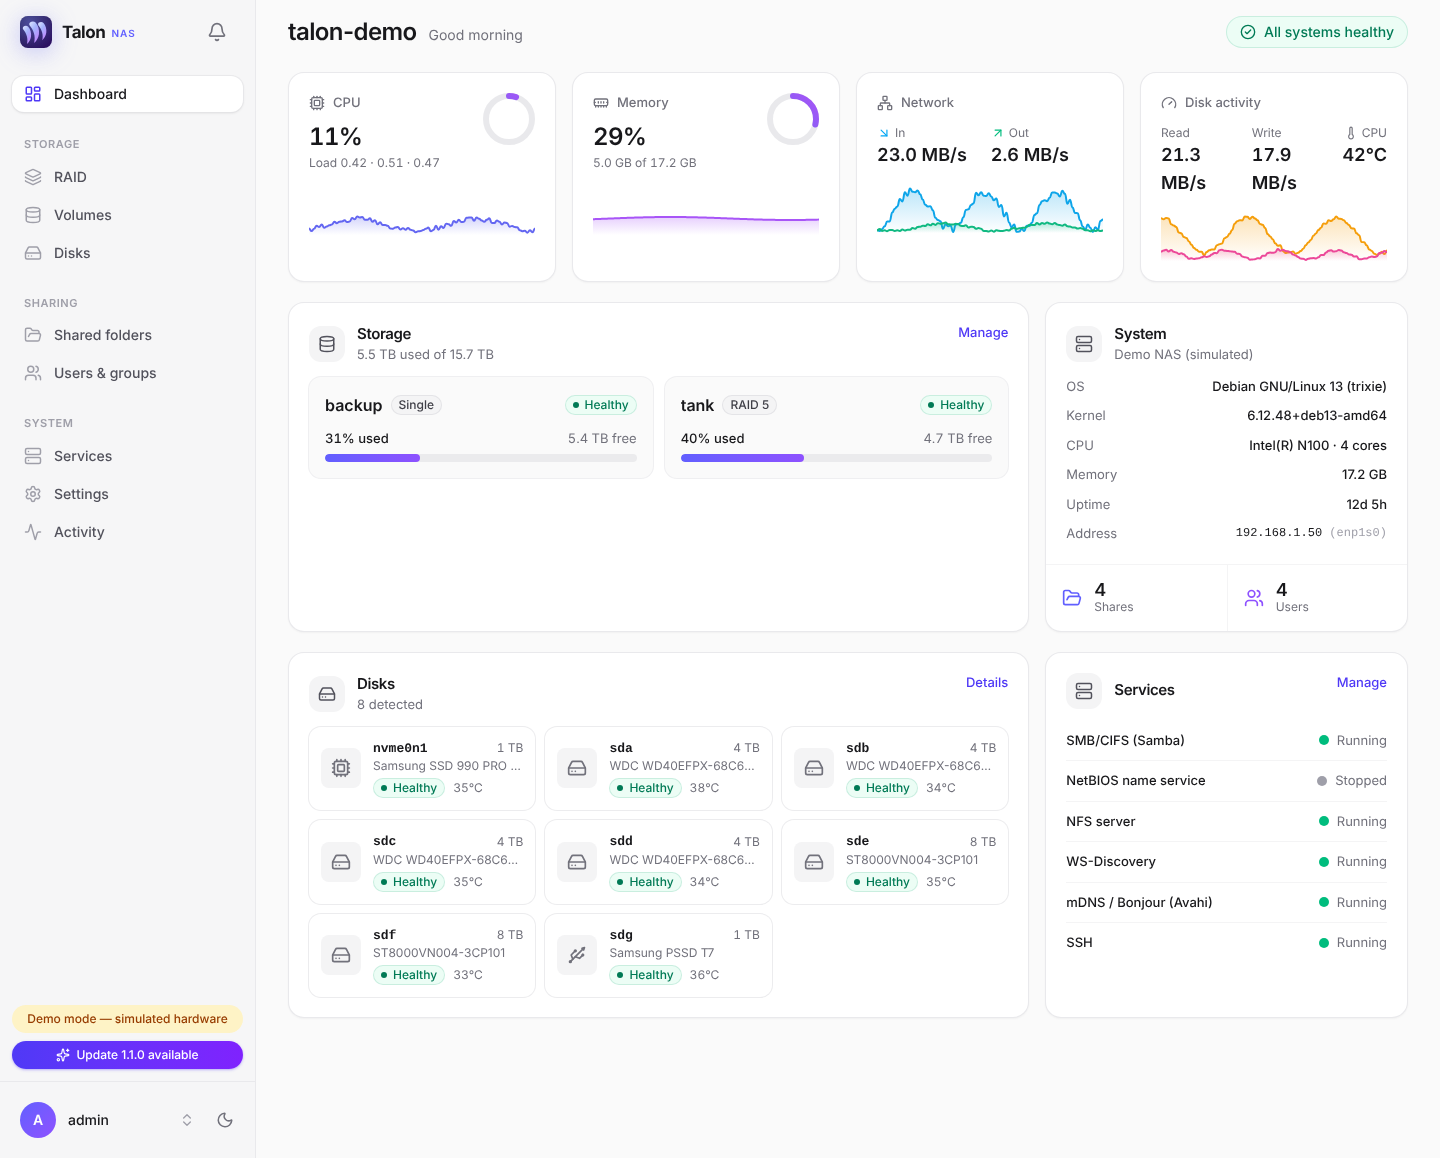
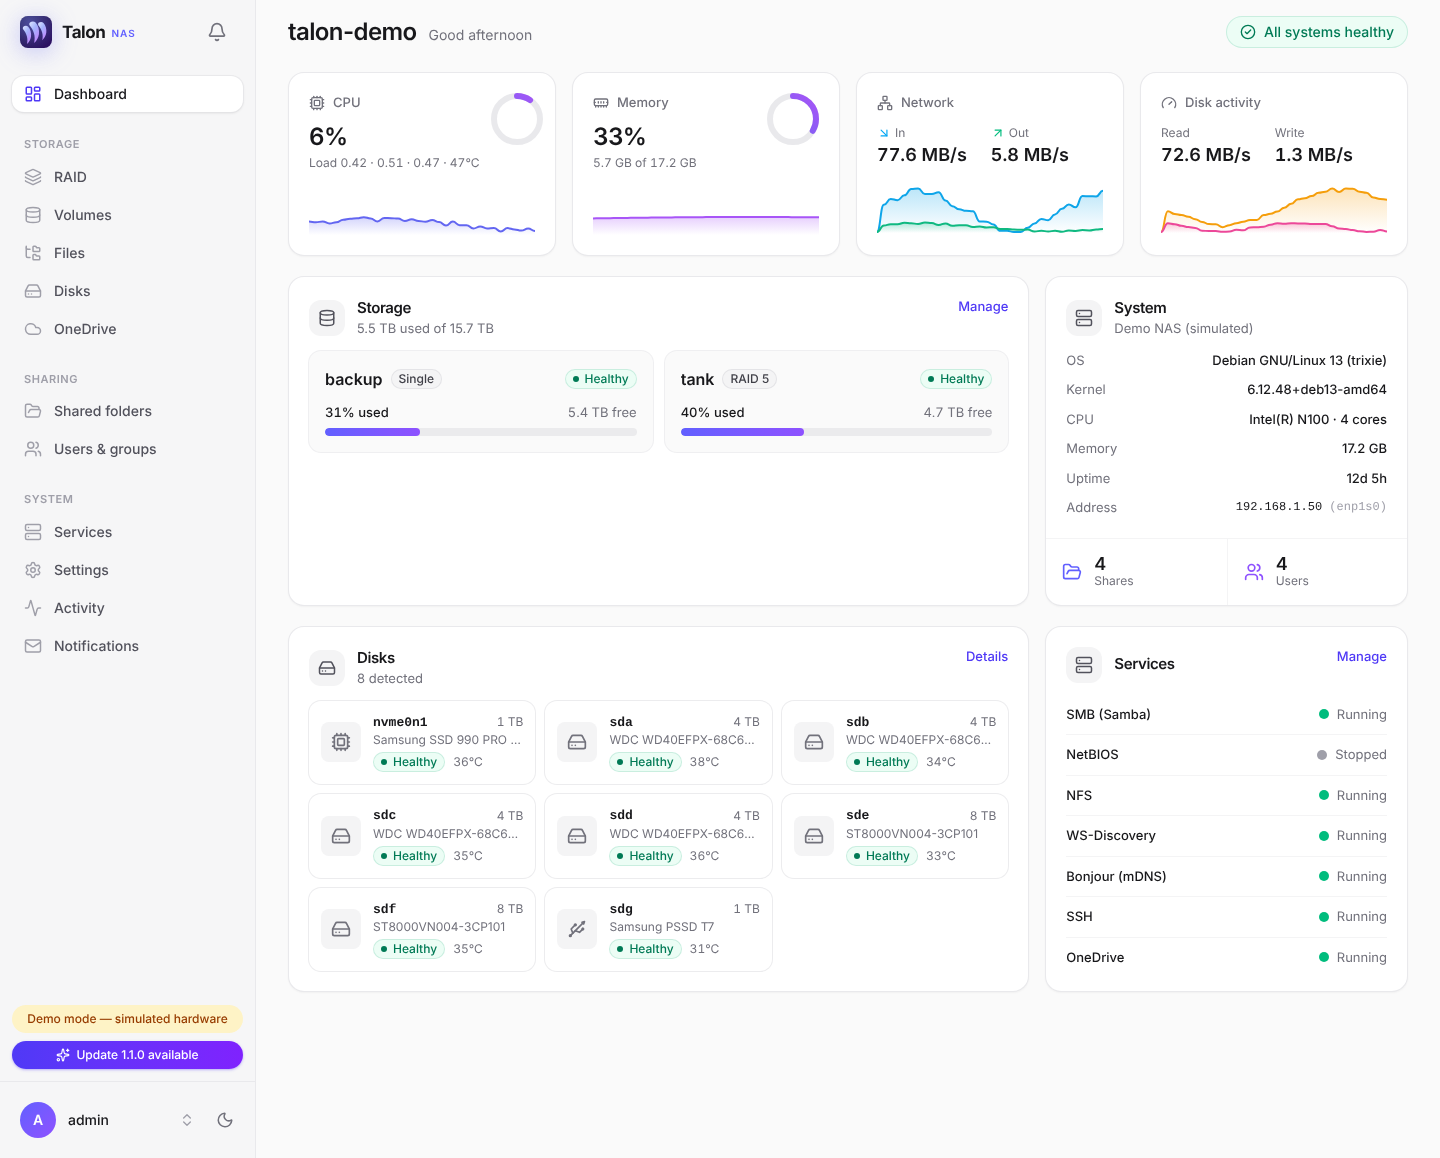
README: screenshot gallery; refreshed dashboard and RAID wizard screenshots; release 1.0.28
Claude-Session: https://claude.ai/code/session_01PEpGi5GNmUTBZ4DwvNjzZw

diff --git a/backend/talon/__init__.py b/backend/talon/__init__.py
@@ -1,3 +1,3 @@
 """Talon - turn a Debian/Ubuntu/Raspberry Pi OS machine into a NAS."""
 
-__version__ = "1.0.27"
+__version__ = "1.0.28"

diff --git a/README.md b/README.md
@@ -59,9 +59,26 @@ https://<nas-ip>/
 - **OneDrive:** back up to or from OneDrive, or two-way sync (beta)
 - **Notifications:** e-mail alerts for RAID, disks, tasks and updates
 
----
+## Screenshots
 
-![RAID wizard](docs/screenshots/raid-wizard.png)
+<table>
+  <tr>
+    <td width="50%" align="center"><a href="docs/screenshots/volumes.png"><img src="docs/screenshots/volumes.png" alt="Volumes on RAID or single disks"></a><br><sub>Volumes on RAID or single disks</sub></td>
+    <td width="50%" align="center"><a href="docs/screenshots/raid-wizard.png"><img src="docs/screenshots/raid-wizard.png" alt="RAID wizard with capacity and protection"></a><br><sub>RAID wizard with capacity and protection</sub></td>
+  </tr>
+  <tr>
+    <td width="50%" align="center"><a href="docs/screenshots/files.png"><img src="docs/screenshots/files.png" alt="Files: browse, upload and download"></a><br><sub>Files: browse, upload and download</sub></td>
+    <td width="50%" align="center"><a href="docs/screenshots/share-permissions.png"><img src="docs/screenshots/share-permissions.png" alt="Shared folder permissions"></a><br><sub>Shared folder permissions</sub></td>
+  </tr>
+  <tr>
+    <td width="50%" align="center"><a href="docs/screenshots/onedrive.png"><img src="docs/screenshots/onedrive.png" alt="OneDrive backup and sync"></a><br><sub>OneDrive backup and sync</sub></td>
+    <td width="50%" align="center"><a href="docs/screenshots/users.png"><img src="docs/screenshots/users.png" alt="Users and groups"></a><br><sub>Users and groups</sub></td>
+  </tr>
+  <tr>
+    <td width="50%" align="center"><a href="docs/screenshots/notifications.png"><img src="docs/screenshots/notifications.png" alt="E-mail notifications"></a><br><sub>E-mail notifications</sub></td>
+    <td width="50%" align="center"><a href="docs/screenshots/dashboard-dark.png"><img src="docs/screenshots/dashboard-dark.png" alt="Dark mode"></a><br><sub>Dark mode</sub></td>
+  </tr>
+</table>
 
 ## Updates
 

diff --git a/CHANGELOG.md b/CHANGELOG.md
@@ -1,5 +1,8 @@
 # Changelog
 
+## 1.0.28
+- README: screenshot gallery of the main pages
+
 ## 1.0.27
 - README describes what Talon is and does
 - Talon is now MIT licensed
